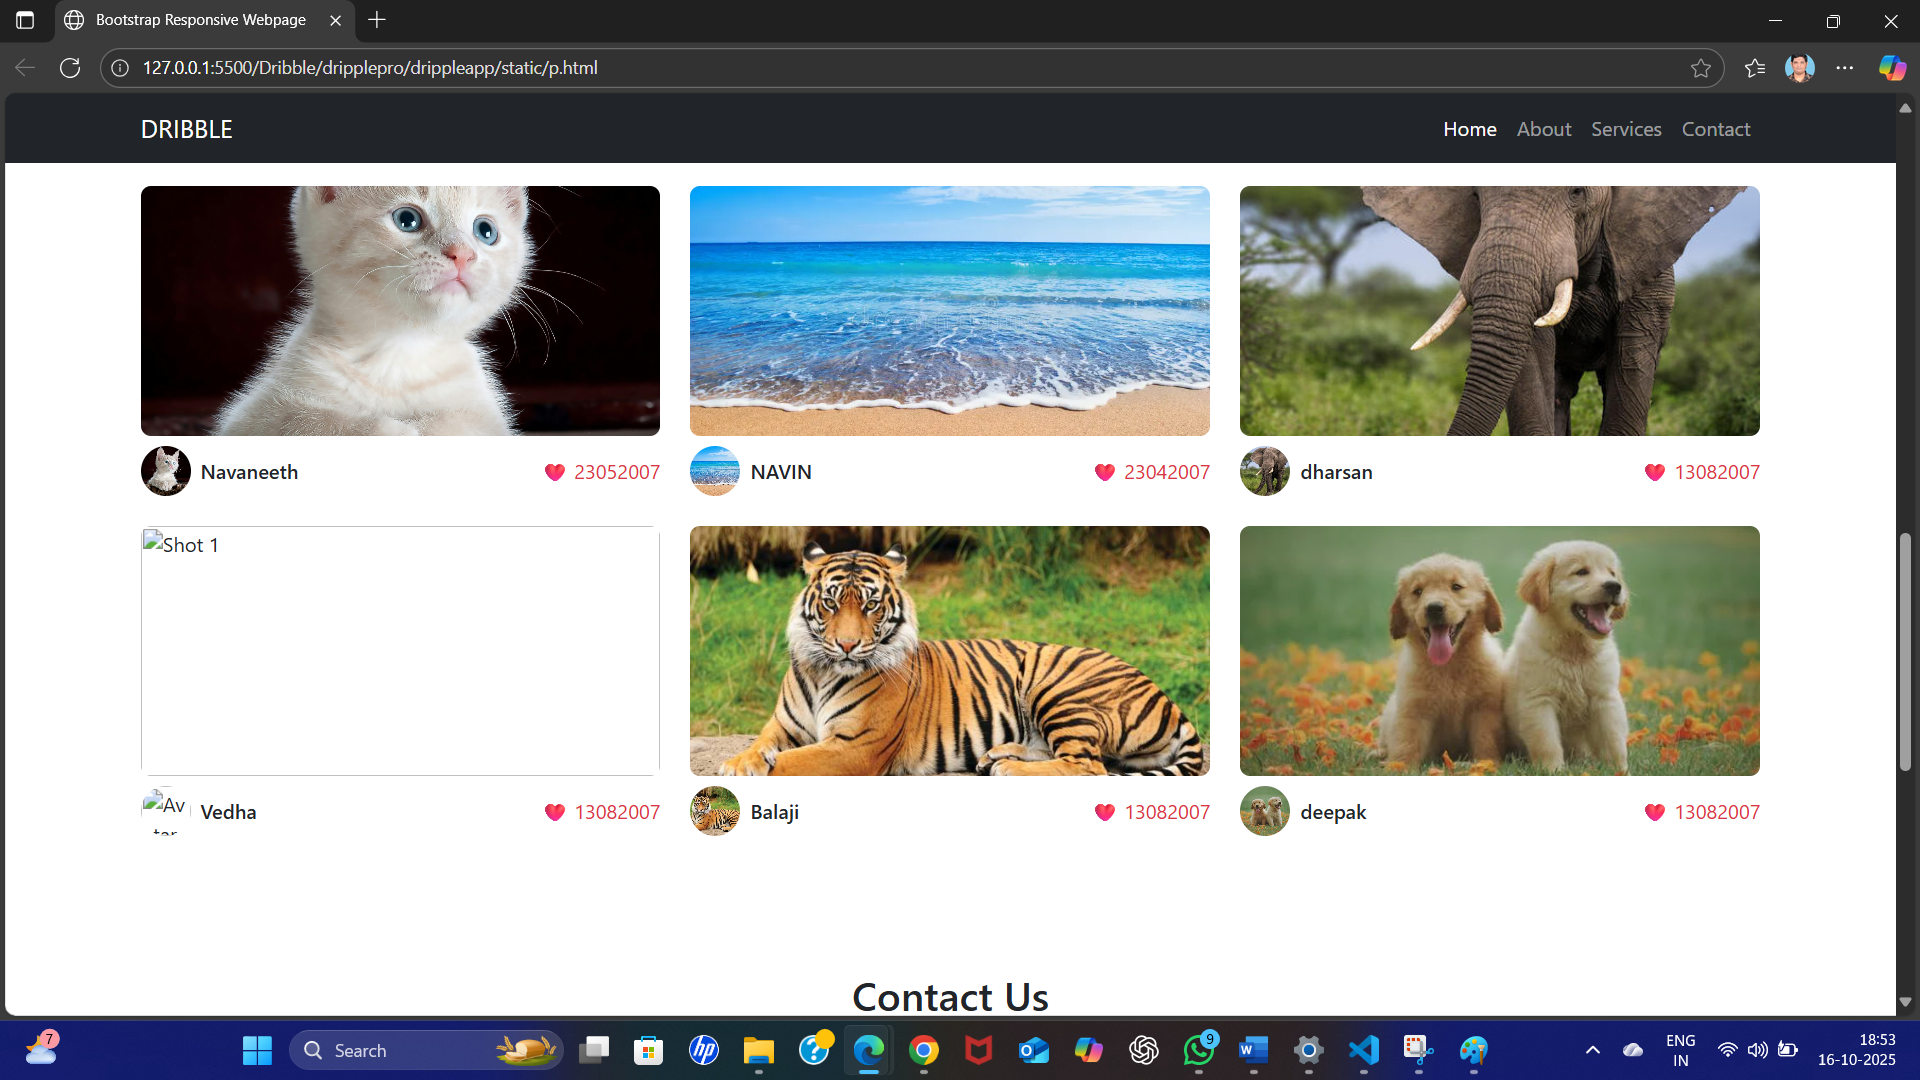
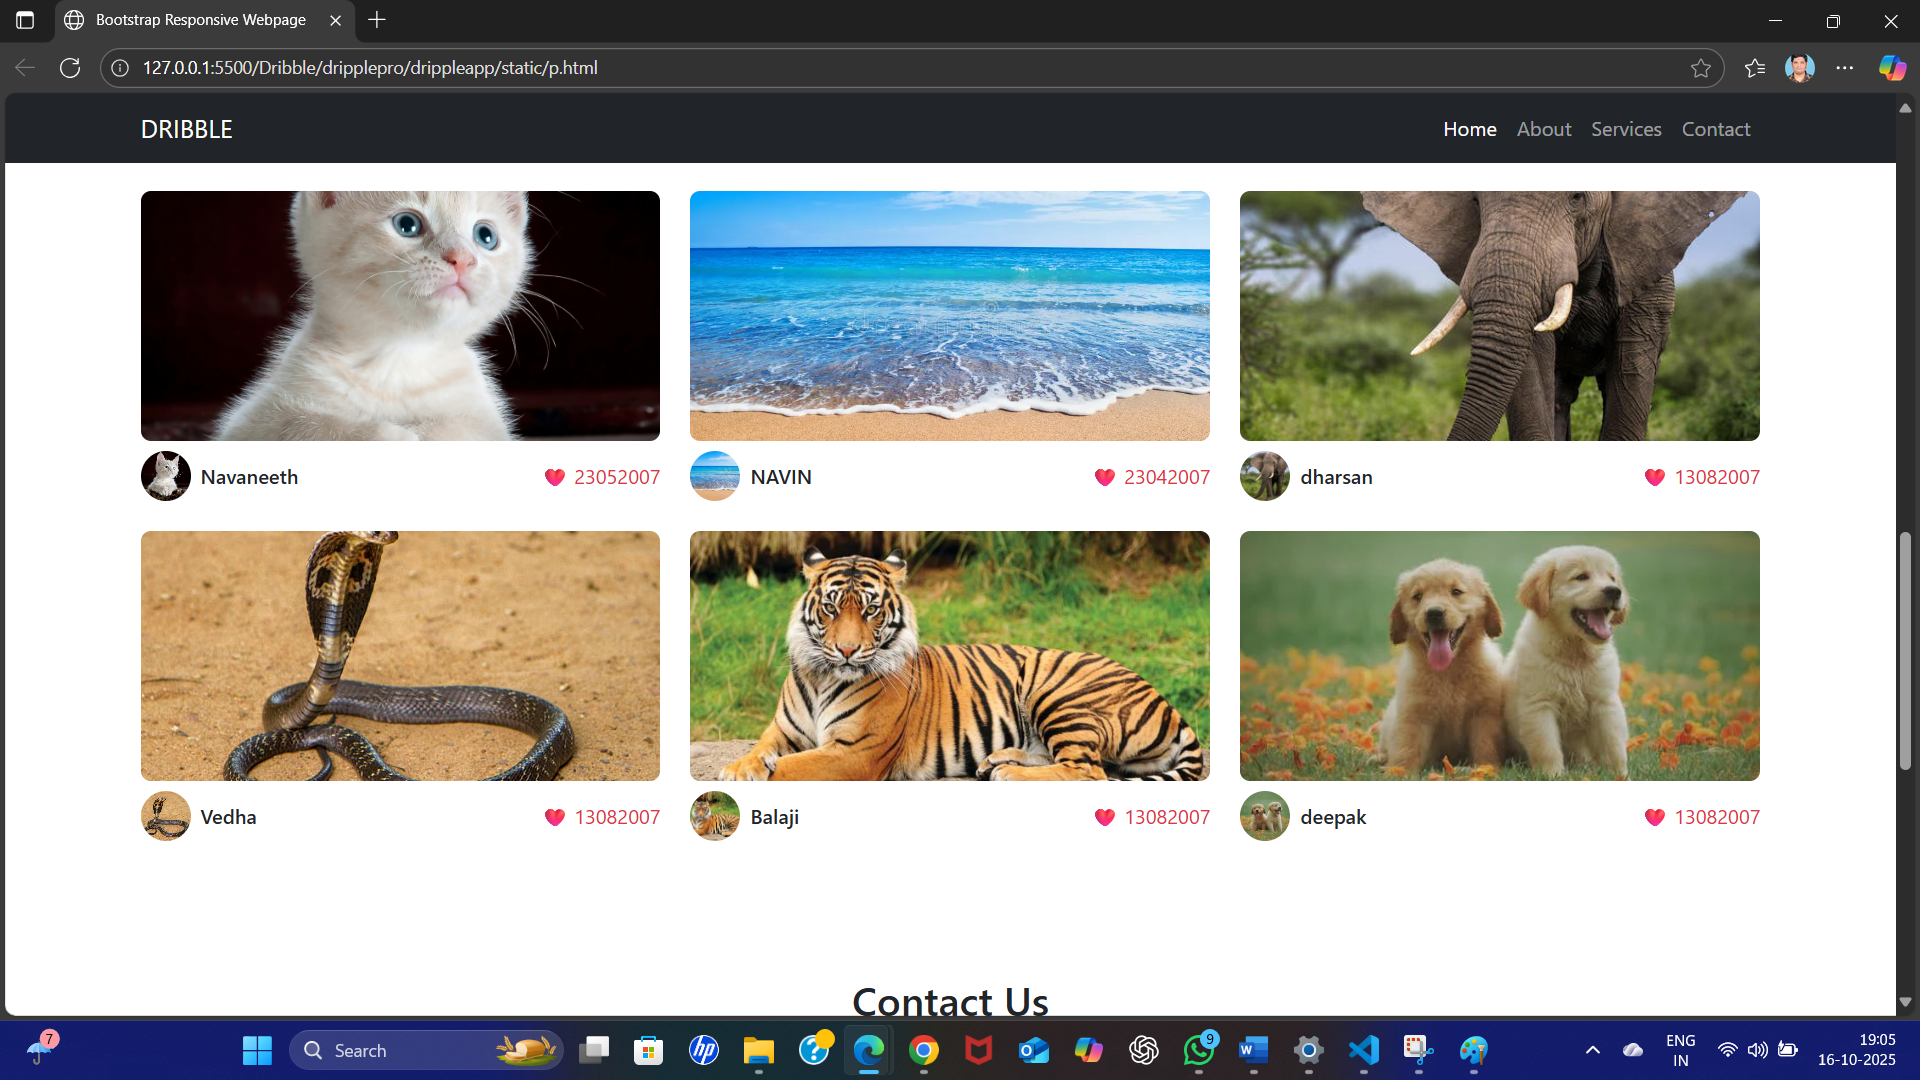
Success

diff --git a/dripplepro/drippleapp/static/p.html b/dripplepro/drippleapp/static/p.html
@@ -159,10 +159,10 @@
         </div>
         <div class="col-md-4">
           <div class="card border-0">
-            <img src="sanke.jpg" class="shot-img w-100" alt="Shot 1">
+            <img src="snake.jpg" class="shot-img w-100" alt="Shot 1">
             <div class="designer-meta">
               <div class="d-flex align-items-center gap-2">
-                <img src="sanke.jpg" class="designer-avatar" alt="Avatar">
+                <img src="snake.jpg" class="designer-avatar" alt="Avatar">
                 <span class="fw-semibold">Vedha</span>
               </div>
               <span class="text-danger">❤ 13082007</span>

diff --git a/README.md b/README.md
@@ -27,6 +27,7 @@ Publish the website in the LocalHost.
 
 # PROGRAM :
 ```
+
 <html>
 <head>
   <meta charset="UTF-8">
@@ -115,10 +116,10 @@ Publish the website in the LocalHost.
       <div class="row g-4">
         <div class="col-md-4">
           <div class="card border-0">
-            <img src="space.jpeg" class="shot-img w-100" alt="Shot 1">
+            <img src="bh.jpg" class="shot-img w-100" alt="Shot 1">
             <div class="designer-meta">
               <div class="d-flex align-items-center gap-2">
-                <img src="space.jpeg" class="designer-avatar" alt="Avatar">
+                <img src="bh.jpg" class="designer-avatar" alt="Avatar">
                 <span class="fw-semibold">Rohith</span>
               </div>
               <span class="text-danger">❤ 13082007</span>
@@ -127,10 +128,10 @@ Publish the website in the LocalHost.
         </div>
         <div class="col-md-4">
           <div class="card border-0">
-            <img src="sriman.jpeg" class="shot-img w-100" alt="Shot 1">
+            <img src="lion.jpg" class="shot-img w-100" alt="Shot 1">
             <div class="designer-meta">
               <div class="d-flex align-items-center gap-2">
-                <img src="sriman.jpeg" class="designer-avatar" alt="Avatar">
+                <img src="lion.jpg" class="designer-avatar" alt="Avatar">
                 <span class="fw-semibold">Sekar</span>
               </div>
               <span class="text-danger">❤ 13082007</span>
@@ -139,10 +140,10 @@ Publish the website in the LocalHost.
         </div>
         <div class="col-md-4">
           <div class="card border-0">
-            <img src="thanzil.jpeg" class="shot-img w-100" alt="Shot 1">
+            <img src="whale.webp" class="shot-img w-100" alt="Shot 1">
             <div class="designer-meta">
               <div class="d-flex align-items-center gap-2">
-                <img src="thanzil.jpeg" class="designer-avatar" alt="Avatar">
+                <img src="whale.webp" class="designer-avatar" alt="Avatar">
                 <span class="fw-semibold">Thanzil</span>
               </div>
               <span class="text-danger">❤ 13082007</span>
@@ -151,10 +152,10 @@ Publish the website in the LocalHost.
         </div>
         <div class="col-md-4">
           <div class="card border-0">
-            <img src="catu.jpeg" class="shot-img w-100" alt="Shot 2">
+            <img src="cat.jpg" class="shot-img w-100" alt="Shot 2">
             <div class="designer-meta">
               <div class="d-flex align-items-center gap-2">
-                <img src="catu.jpeg" class="designer-avatar" alt="Avatar">
+                <img src="cat.jpg" class="designer-avatar" alt="Avatar">
                 <span class="fw-semibold">Navaneeth</span>
               </div>
               <span class="text-danger">❤ 23052007</span>
@@ -163,10 +164,10 @@ Publish the website in the LocalHost.
         </div>
         <div class="col-md-4">
           <div class="card border-0">
-            <img src="sea.jpeg" class="shot-img w-100" alt="Shot 3">
+            <img src="beach-sea-18378306.webp" class="shot-img w-100" alt="Shot 3">
             <div class="designer-meta">
               <div class="d-flex align-items-center gap-2">
-                <img src="sea.jpeg" class="designer-avatar" alt="Avatar">
+                <img src="beach-sea-18378306.webp" class="designer-avatar" alt="Avatar">
                 <span class="fw-semibold">NAVIN</span>
               </div>
               <span class="text-danger">❤ 23042007</span>
@@ -187,10 +188,10 @@ Publish the website in the LocalHost.
         </div>
         <div class="col-md-4">
           <div class="card border-0">
-            <img src="sanke.jpeg" class="shot-img w-100" alt="Shot 1">
+            <img src="snake.jpg" class="shot-img w-100" alt="Shot 1">
             <div class="designer-meta">
               <div class="d-flex align-items-center gap-2">
-                <img src="sanke.jpeg" class="designer-avatar" alt="Avatar">
+                <img src="snake.jpg" class="designer-avatar" alt="Avatar">
                 <span class="fw-semibold">Vedha</span>
               </div>
               <span class="text-danger">❤ 13082007</span>
@@ -199,10 +200,10 @@ Publish the website in the LocalHost.
         </div>
         <div class="col-md-4">
           <div class="card border-0">
-            <img src="tiger.jpeg" class="shot-img w-100" alt="Shot 1">
+            <img src="tiger.jpg" class="shot-img w-100" alt="Shot 1">
             <div class="designer-meta">
               <div class="d-flex align-items-center gap-2">
-                <img src="tiger.jpeg" class="designer-avatar" alt="Avatar">
+                <img src="tiger.jpg" class="designer-avatar" alt="Avatar">
                 <span class="fw-semibold">Balaji</span>
               </div>
               <span class="text-danger">❤ 13082007</span>
@@ -211,10 +212,10 @@ Publish the website in the LocalHost.
         </div>
         <div class="col-md-4">
           <div class="card border-0">
-            <img src="dog.jpeg" class="shot-img w-100" alt="Shot 1">
+            <img src="dog.webp" class="shot-img w-100" alt="Shot 1">
             <div class="designer-meta">
               <div class="d-flex align-items-center gap-2">
-                <img src="dog.jpeg" class="designer-avatar" alt="Avatar">
+                <img src="dog.webp" class="designer-avatar" alt="Avatar">
                 <span class="fw-semibold">deepak</span>
               </div>
               <span class="text-danger">❤ 13082007</span>
